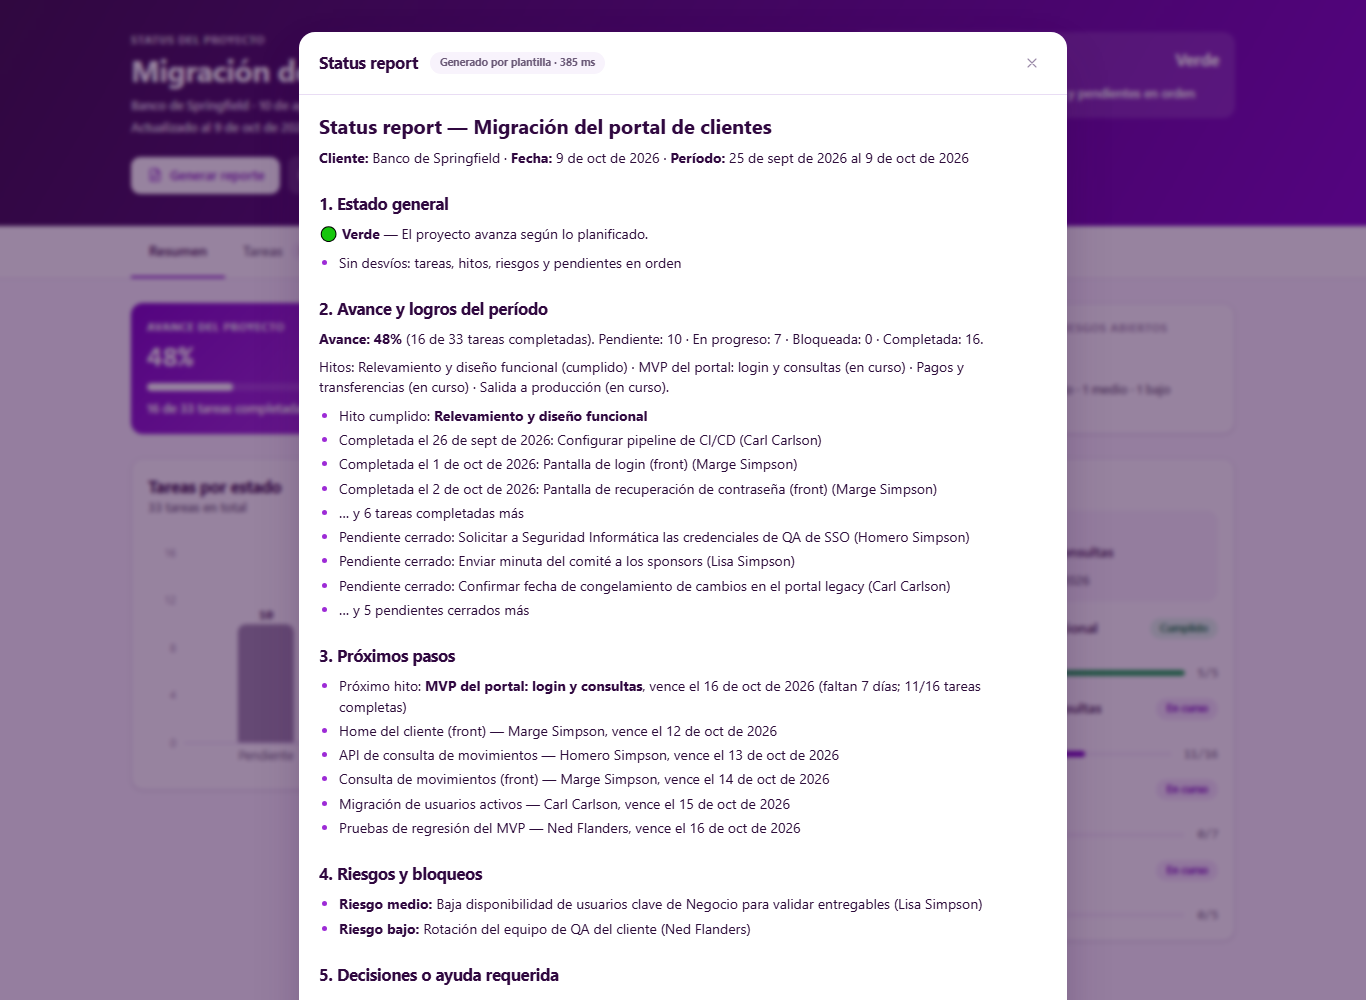
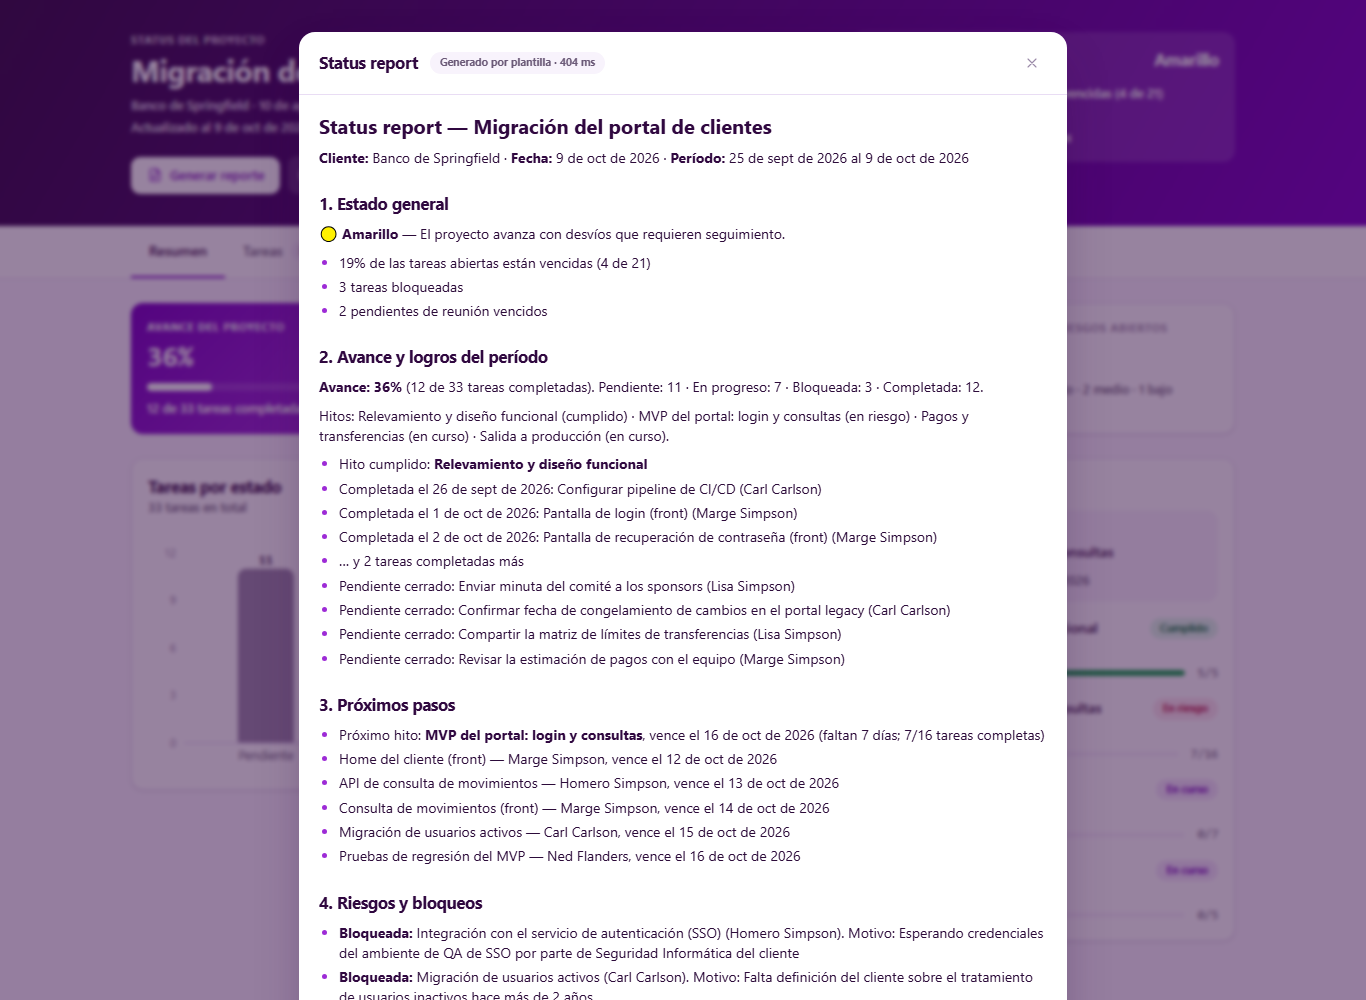
feat: bring back blocked and overdue tasks in the demo project
The demo project is yellow again: 4 overdue tasks, 3 blocked ones with
their reasons and 2 overdue meeting action items. The three completed
tasks added for the MVP milestone are kept. Restores the matching tests
and docs and retakes the screenshots.

diff --git a/src/lib/data.test.ts b/src/lib/data.test.ts
@@ -58,28 +58,16 @@ describe("demo data: date shifting", () => {
   });
 });
 
-describe("demo data: the project is always green", () => {
+describe("demo data: the project is always yellow", () => {
   const baseline = healthOn(REF);
 
-  it("is green on the reference date, with nothing overdue, blocked or at risk", () => {
-    expect(baseline.level).toBe("green");
-    expect(baseline.reasons).toEqual(["Sin desvíos: tareas, hitos, riesgos y pendientes en orden"]);
-    const m = computeMetrics(getProjectData(REF), REF);
-    expect(m.overdueTasks).toHaveLength(0);
-    expect(m.blockedTasks).toHaveLength(0);
-    expect(m.overdueActionItems).toHaveLength(0);
-    expect(m.overdueMilestones).toHaveLength(0);
-    expect(m.openRisksByImpact.high).toBe(0);
-  });
-
-  it("still has progress to show: recent completions and the MVP on track", () => {
-    const data = getProjectData(REF);
-    const m = computeMetrics(data, REF);
-    expect(m.progressPct).toBe(48);
-    expect(m.milestones.find((s) => s.milestone.id === "m2")?.state).toBe("on_track");
-    const periodStart = addDays(REF, -14);
-    const recent = data.tasks.filter((t) => t.status === "done" && t.completedAt! >= periodStart);
-    expect(recent.length).toBeGreaterThanOrEqual(5);
+  it("is yellow on the reference date, with the three documented reasons", () => {
+    expect(baseline.level).toBe("yellow");
+    expect(baseline.reasons).toEqual([
+      "19% de las tareas abiertas están vencidas (4 de 21)",
+      "3 tareas bloqueadas",
+      "2 pendientes de reunión vencidos",
+    ]);
   });
 
   it.each(OFFSETS)("is identical when opened %i days from the reference date", (offset) => {

diff --git a/docs/SPEC.md b/docs/SPEC.md
@@ -33,7 +33,7 @@ Definido en [`src/lib/types.ts`](../src/lib/types.ts). Fechas en ISO `AAAA-MM-DD
 
 [`src/data/proyecto-demo.json`](../src/data/proyecto-demo.json): "Migración del portal de clientes" para un banco ficticio. Tiene 4 hitos, 30 tareas de 6 responsables, 10 pendientes de 3 reuniones y 12 ítems relevados.
 
-Las fechas del JSON están escritas respecto de `referenceDate`. Al cargarse ([`src/lib/data.ts`](../src/lib/data.ts)), todas se corren `(hoy − referenceDate)` días, así que el estado del proyecto es el mismo cualquier día que se abra: **verde**, con 16 de 33 tareas completadas (48%), ninguna vencida ni bloqueada y ningún pendiente vencido.
+Las fechas del JSON están escritas respecto de `referenceDate`. Al cargarse ([`src/lib/data.ts`](../src/lib/data.ts)), todas se corren `(hoy − referenceDate)` días, así que el estado del proyecto es el mismo cualquier día que se abra: **amarillo**, con 4 tareas vencidas, 3 bloqueadas y 2 pendientes vencidos.
 
 ## 4. KPIs
 
@@ -135,7 +135,7 @@ Cada reporte con IA tiene costo, y el endpoint es público. Por eso las llamadas
 |---|---|
 | `lib/dates.test.ts` | "hoy" en horario de Argentina (incluidos los bordes de UTC), `daysBetween`, `addDays`, formato de fechas |
 | `lib/metrics.test.ts` | KPIs, estado de cada hito y semáforo: umbrales de 10% y 20%, motivos y su orden, singular y plural |
-| `lib/data.test.ts` | el corrimiento de fechas de los datos de demo y que el proyecto sea **siempre verde**, con los mismos motivos, sea cual sea el día |
+| `lib/data.test.ts` | el corrimiento de fechas de los datos de demo y que el proyecto sea **siempre amarillo**, con los mismos motivos, sea cual sea el día |
 | `lib/tasks.test.ts` | validación y normalización de tareas, y `parseTasks` con datos corruptos o malintencionados |
 | `lib/report-summary.test.ts` | qué entra en cada sección del reporte (período, próximos 7 días, riesgos, hallazgos) |
 | `lib/report-template.test.ts` | estructura del reporte, estados vacíos y los topes para que entre en una página |

diff --git a/CLAUDE.md b/CLAUDE.md
@@ -95,13 +95,11 @@ generarse relativos a la fecha actual para que haya vencidas y próximas.
 
 ## Datos de prueba
 Un proyecto ficticio realista (ej.: "Migración del portal de clientes" para un banco o retail):
-- 4 hitos (1 cumplido, el resto en curso)
-- ~33 tareas, 6 responsables, mezcla de estados (completadas, en progreso, pendientes)
-- ~10 action items de 3 reuniones distintas, la mayoría cerrados
-- ~12 ítems relevados (requerimientos, hallazgos y riesgos; queda al menos 1 hallazgo de impacto alto abierto)
-El proyecto queda en **verde** con los datos por defecto: sin tareas vencidas ni bloqueadas, sin pendientes vencidos
-y con avance reciente (tareas cerradas en los últimos 14 días). Para mostrar un desvío en la demo, crear o editar tareas
-desde el tablero (por ejemplo, una bloqueada o vencida) y ver cómo cambia el semáforo.
+- 4 hitos (1 cumplido, 1 en riesgo)
+- ~33 tareas, 5–6 responsables, mezcla de estados, ~15% vencidas, 2–3 bloqueadas con motivo
+- ~10 action items de 3 reuniones distintas
+- ~12 ítems relevados (requerimientos, hallazgos y 3–4 riesgos, al menos 1 de impacto alto abierto)
+El proyecto debe quedar en **amarillo** con los datos por defecto (es lo más interesante para la demo).
 
 ## KPIs (`src/lib/metrics.ts`)
 - % de avance = tareas `done` / total
@@ -119,7 +117,7 @@ Devuelve `{ level: "green" | "yellow" | "red", reasons: string[] }` (motivos en 
 - **Amarillo**: > 10% de tareas abiertas vencidas, o al menos una tarea bloqueada,
   o pendientes de reunión vencidos.
 - **Verde**: el resto.
-(Los datos de demo están ajustados para que el default quede en verde.)
+(Ajustar datos o umbrales para que el default quede en amarillo.)
 
 ## Status report (`POST /api/report`)
 Salida en Markdown, en español, tono ejecutivo, máximo ~1 página, con estas secciones:
